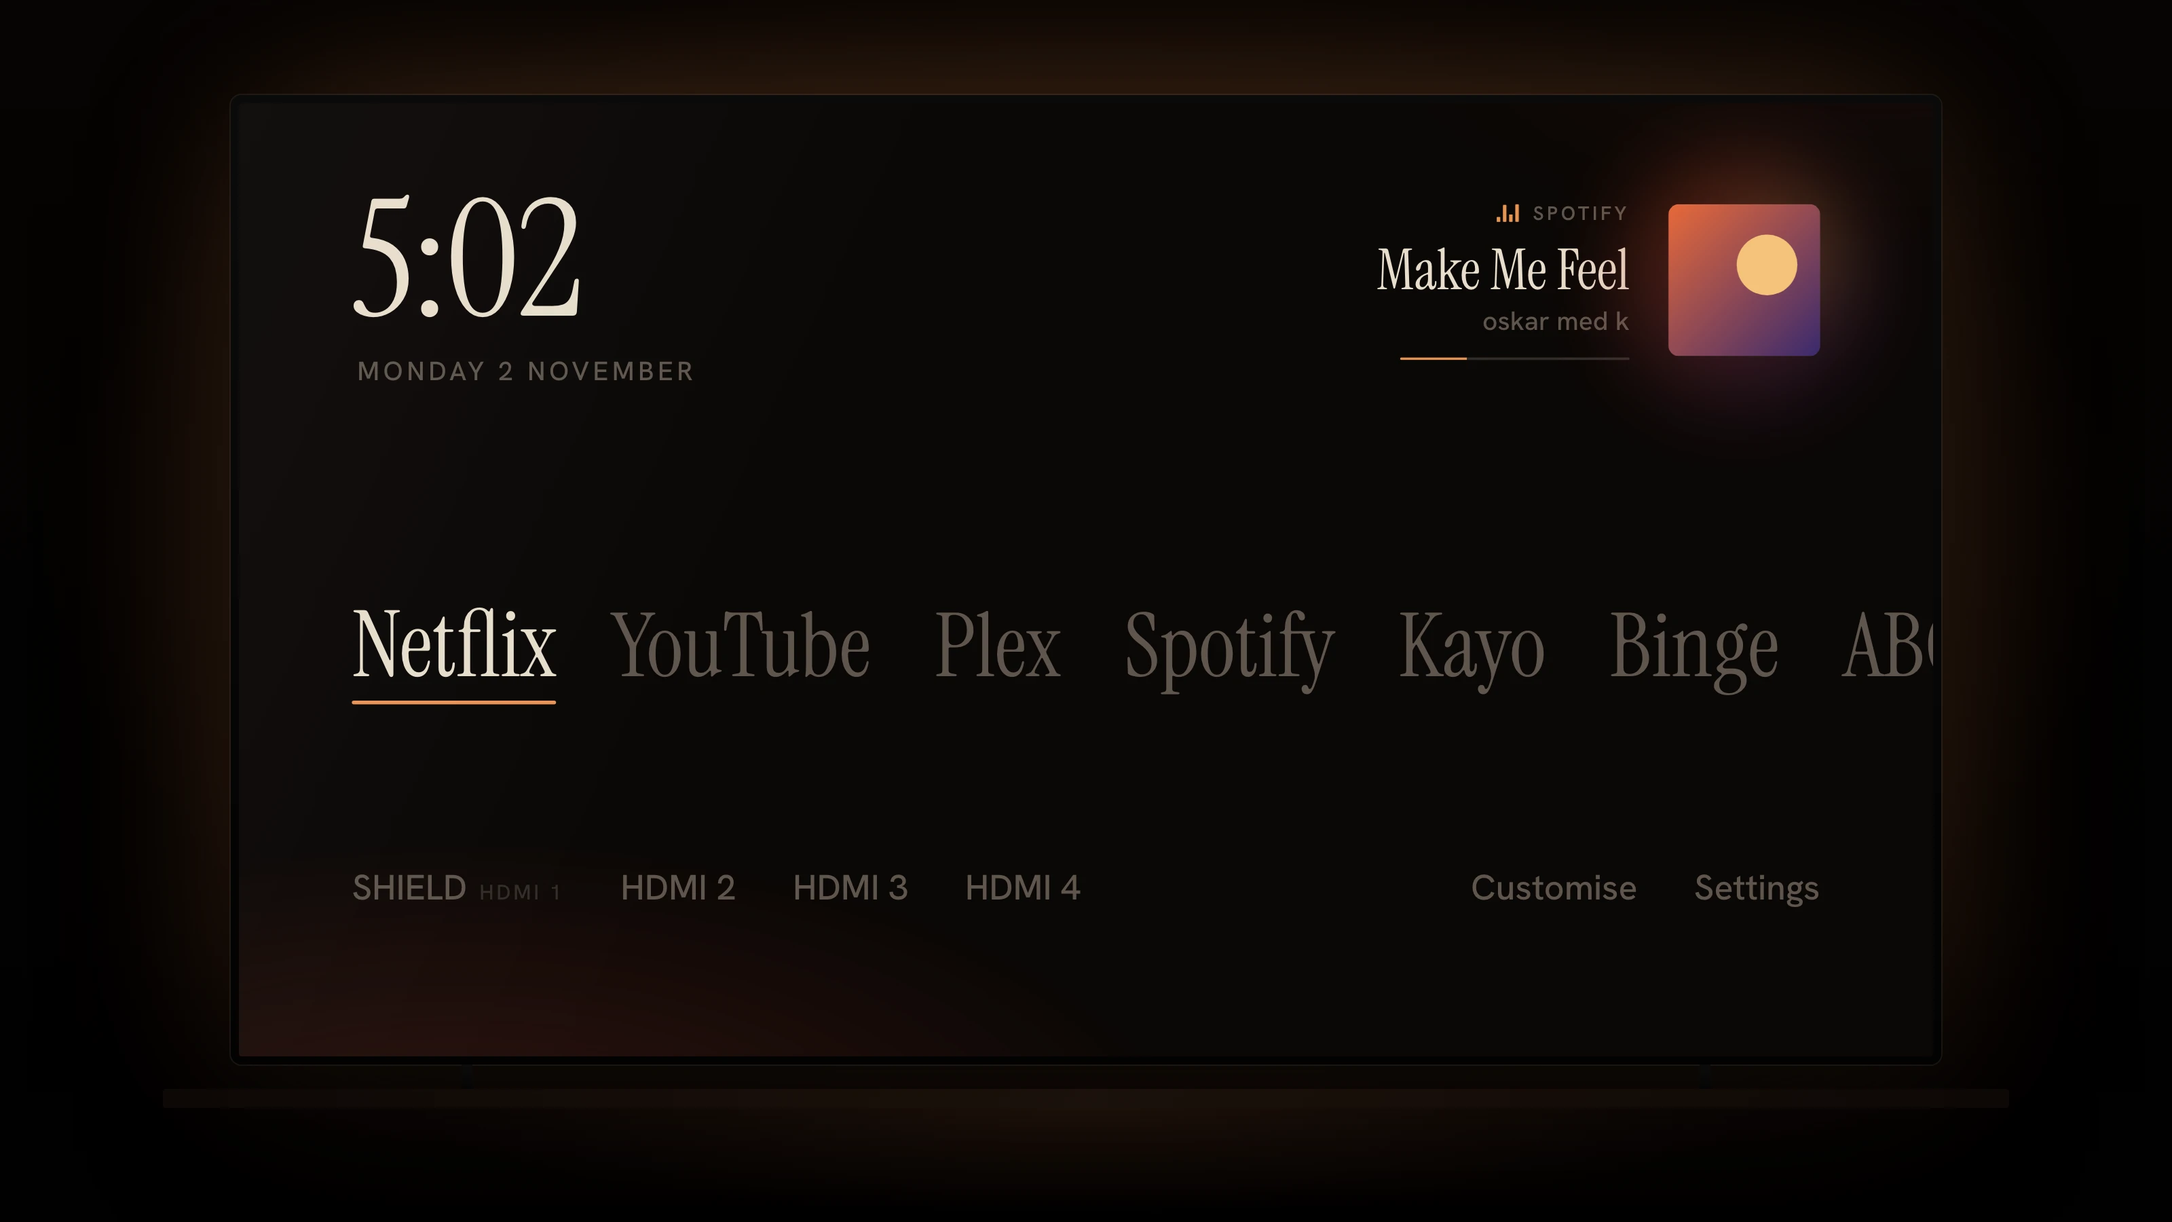
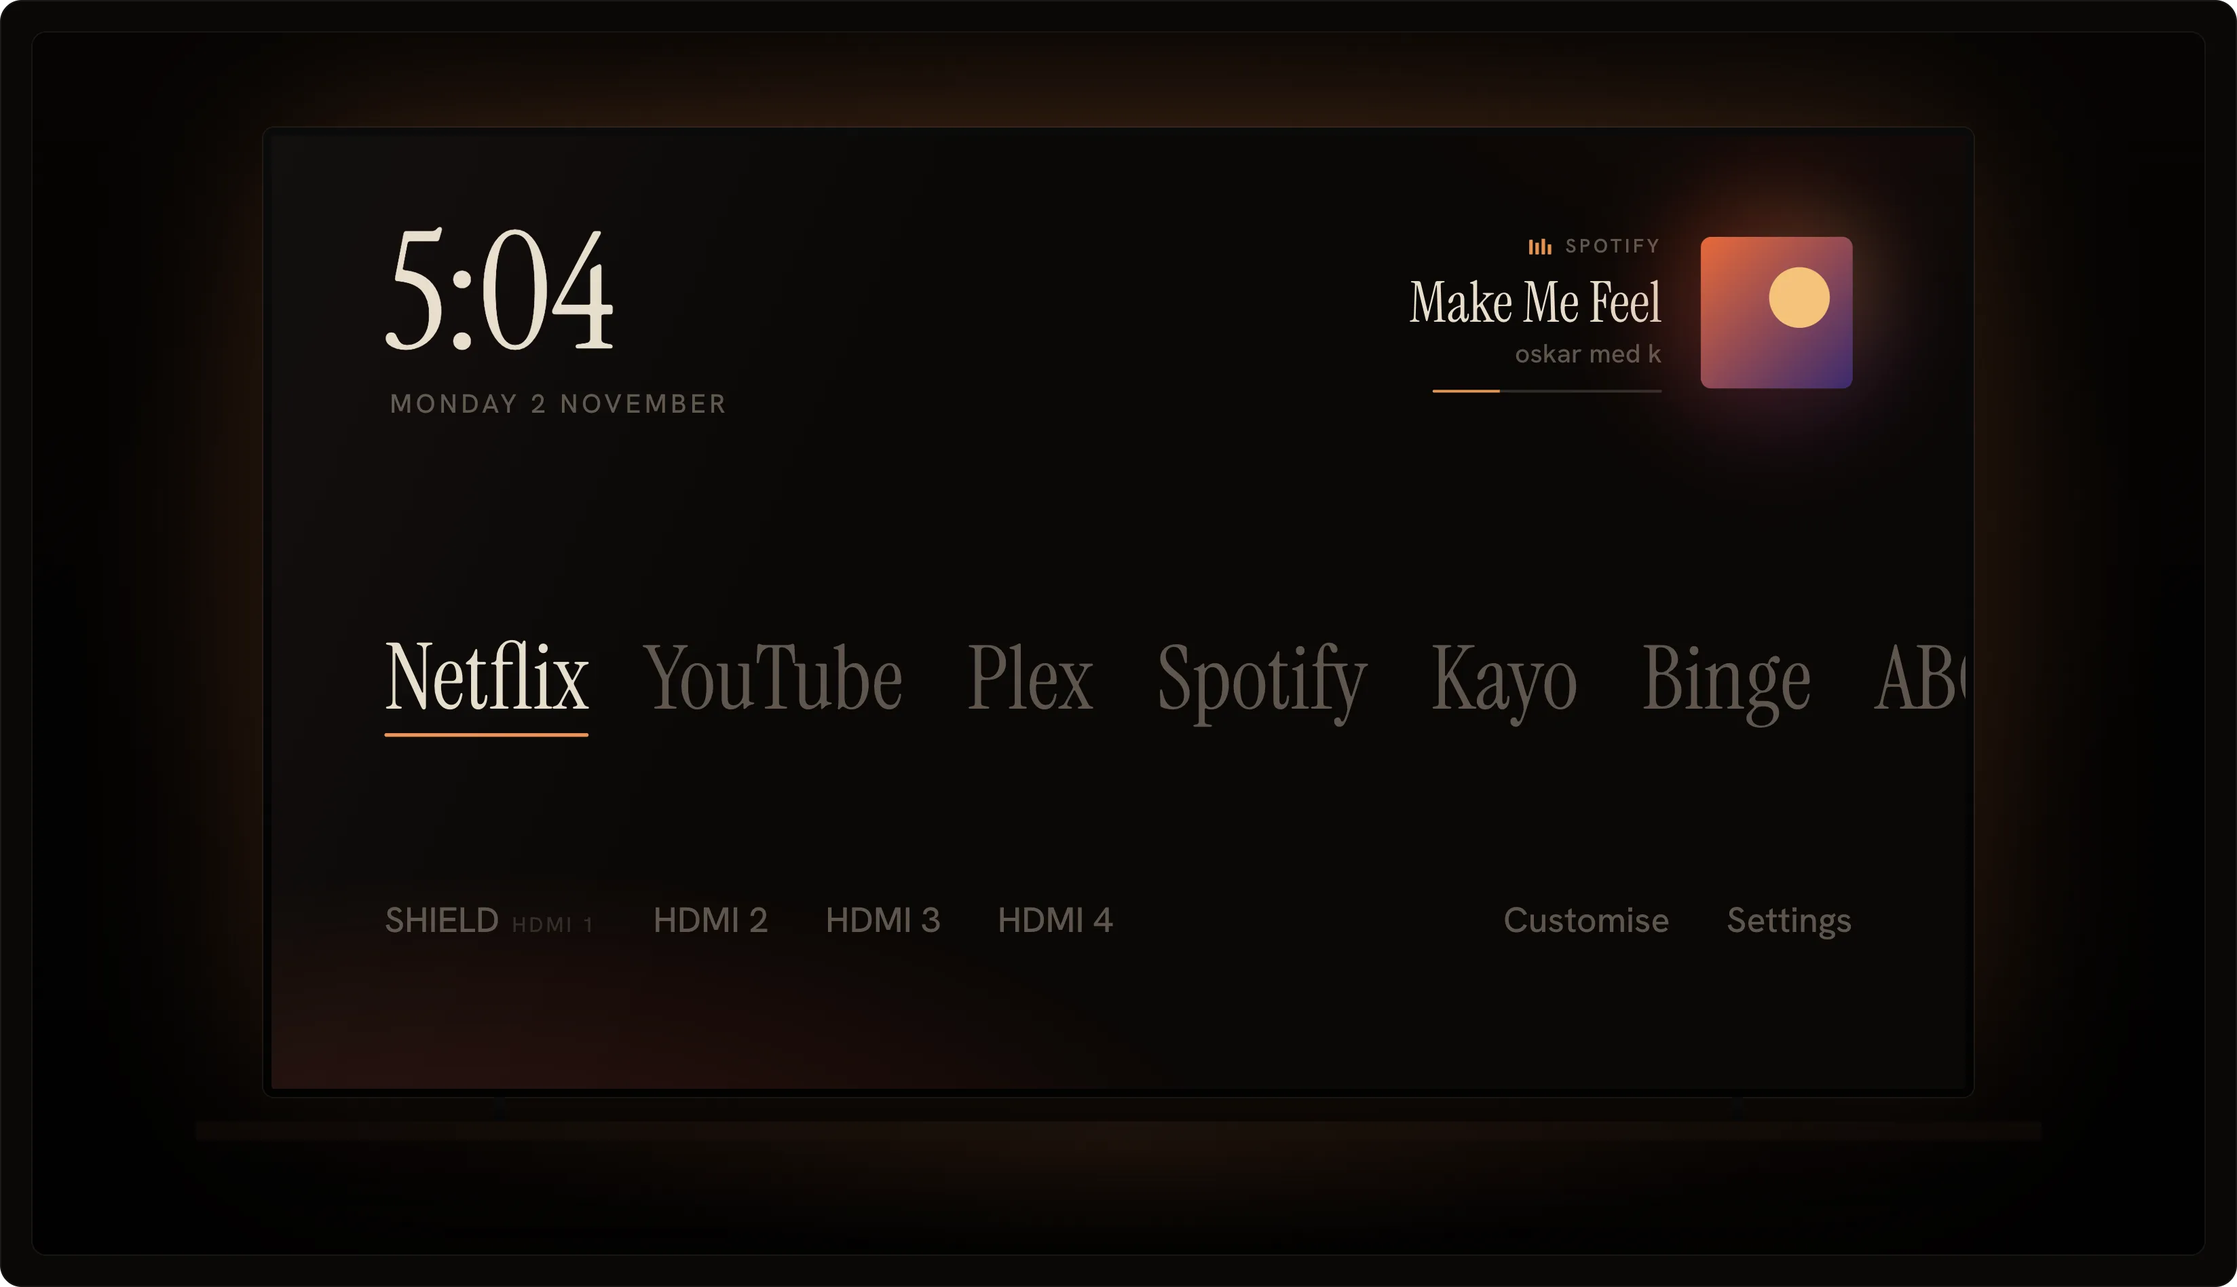
docs: give the README room between sections and a new hero
Space out sections, loosen long lists and split dense paragraphs. Frame the
Home and Remote shots like the other README images, and replace the hero,
which repeated them, with one that shows the busy home screen fading to Home's
quiet row.

diff --git a/docs/images/hero-noise.html b/docs/images/hero-noise.html
@@ -1,0 +1,67 @@
+<!doctype html>
+<html><head><meta charset="utf-8">
+<!-- README hero, "noise to black": a busy grid of tiles switching off, pixel by pixel, into one quiet row in Home's type.
+     Render: brave/chrome --headless --hide-scrollbars --force-device-scale-factor=2 --window-size=880,400 --default-background-color=00000000 --screenshot=hero-noise.png hero-noise.html
+     Keep it PNG (WebP bands the gradients). -->
+<style>
+@font-face{font-family:Display;src:url(../../launcher/app/assets/fonts/InstrumentSerif-Regular.ttf)}
+@font-face{font-family:Text;src:url(../../launcher/app/assets/fonts/HankenGrotesk.ttf);font-weight:100 900}
+:root{--bg:oklch(9% 0.006 60);--ink:oklch(90% 0.025 80);--dim:oklch(46% 0.018 70);--faint:oklch(24% 0.01 65);--accent:oklch(74% 0.13 58)}
+*{margin:0;padding:0;box-sizing:border-box}
+html,body{width:880px;height:400px;overflow:hidden;background:transparent;font-family:Text;-webkit-font-smoothing:antialiased;color:var(--ink)}
+.card{position:absolute;inset:0;border-radius:16px;overflow:hidden;background:var(--bg);box-shadow:inset 0 0 0 1px oklch(100% 0 0 / .07)}
+/* the noise: tiles placed by the script below */
+.noise{position:absolute;inset:0;-webkit-mask-image:linear-gradient(90deg,#000 16%,transparent 54%)}
+.noise b{position:absolute;border-radius:3px}
+/* the quiet side, in Home's own type at .38 of its 1080p sizes, so the proportions are the real ones:
+   time 184 / date 30 / apps 100 with a 72 gap and a 4px focus bar */
+.quiet{position:absolute;left:520px;top:0;bottom:0;display:flex;flex-direction:column;justify-content:center}
+.time{font-family:Display;font-size:70px;line-height:.9;letter-spacing:-.01em;font-variant-numeric:lining-nums}
+.date{margin:10px 0 0 2px;font-size:11px;font-weight:500;letter-spacing:.14em;text-transform:uppercase;color:var(--dim)}
+/* the dial runs off the edge, as it does on the TV */
+.row{display:flex;align-items:baseline;gap:27px;width:330px;margin-top:46px;overflow:hidden;font-family:Display;font-size:38px;line-height:1.5;white-space:nowrap;
+  -webkit-mask-image:linear-gradient(90deg,#000 calc(100% - 90px),transparent)}
+.row span{color:var(--dim)}
+.row span:first-child{color:var(--ink)}
+.row span:first-child::after{content:"";display:block;height:2px;margin-top:-5px;border-radius:1px;background:var(--accent)}
+.brand{position:absolute;left:521px;bottom:30px;display:flex;align-items:center;gap:9px;font-size:10px;font-weight:600;letter-spacing:.16em;text-transform:uppercase;color:var(--dim)}
+.brand i{width:5px;height:5px;border-radius:50%;background:var(--accent);box-shadow:0 0 8px var(--accent)}
+</style></head><body>
+<div class="card">
+  <div class="noise"></div>
+  <div class="quiet">
+    <div class="time">6:35</div>
+    <div class="date">Monday 2 November</div>
+    <div class="row"><span>Netflix</span><span>YouTube</span><span>Plex</span><span>Spotify</span></div>
+  </div>
+  <div class="brand"><i></i>Blacklevel</div>
+</div>
+<script>
+// a seeded shuffle, so every render is the same picture
+let seed = 7; const rnd = () => (seed = (seed * 16807) % 2147483647) / 2147483647;
+const noise = document.querySelector('.noise');
+const tile = (x, y, w, h, bg, extra = '') => {
+  // tiles go out from left to right: fainter, then switched off, like an OLED dropping pixels
+  const t = Math.min(1, Math.max(0, (x - 60) / 380));
+  if(rnd() < t * 1.15) return;
+  const b = document.createElement('b');
+  b.style.cssText = `left:${x}px;top:${y}px;width:${w}px;height:${h}px;background:${bg};opacity:${(1 - t * .85).toFixed(2)};${extra}`;
+  noise.appendChild(b);
+};
+const grey = () => `oklch(${(24 + rnd() * 16).toFixed(1)}% ${(rnd() * .02).toFixed(3)} ${Math.round(rnd() * 360)})`;
+const loud = () => `oklch(${(38 + rnd() * 12).toFixed(1)}% ${(.05 + rnd() * .05).toFixed(3)} ${[25, 250, 145, 300][Math.floor(rnd() * 4)]})`;
+// a hero banner, then rows of thumbnails with their title bars, badges and the odd loud tile
+tile(28, 28, 280, 100, 'linear-gradient(110deg, oklch(34% .05 250), oklch(26% .03 300))');
+tile(44, 92, 90, 8, 'oklch(55% .01 80)'); tile(44, 106, 56, 14, 'oklch(62% .12 25)', 'border-radius:7px');
+tile(316, 28, 136, 100, grey()); tile(460, 28, 136, 100, grey());
+let y = 156;
+for(const h of [40, 34, 40, 34, 40]){
+  for(let x = 28; x < 620; x += 72 + Math.round(rnd() * 6)){
+    tile(x, y, 64, h, rnd() < .18 ? loud() : grey());
+    tile(x, y + h + 5, 40 + rnd() * 40, 4, 'oklch(32% .006 70)');
+    if(rnd() < .25) tile(x + 5, y + 5, 18, 7, loud(), 'border-radius:5px');
+  }
+  y += h + 16;
+}
+</script>
+</body></html>

diff --git a/docs/images/remote-menubar.html b/docs/images/remote-menubar.html
@@ -1,11 +1,13 @@
 <!doctype html>
 <html><head><meta charset="utf-8">
-<!-- Render: brave/chrome --headless --hide-scrollbars --force-device-scale-factor=2 --window-size=1200,700 --screenshot=remote-menubar.png remote-menubar.html -->
+<!-- Render: brave/chrome --headless --hide-scrollbars --force-device-scale-factor=2 --window-size=1200,720 --screenshot=remote-menubar.png remote-menubar.html -->
 <style>
 *{margin:0;padding:0;box-sizing:border-box}
-html,body{width:1200px;height:700px;overflow:hidden;font-family:-apple-system,BlinkMacSystemFont,sans-serif;-webkit-font-smoothing:antialiased}
+html,body{width:1200px;height:720px;overflow:hidden;background:transparent;font-family:-apple-system,BlinkMacSystemFont,sans-serif;-webkit-font-smoothing:antialiased}
+/* framed like the other README images: a dark rounded card with a 24px border */
+.card{position:absolute;inset:0;border-radius:16px;padding:24px;background:oklch(13% 0.008 60);box-shadow:inset 0 0 0 1px oklch(100% 0 0 / .07)}
 /* desktop: a dim night horizon, no personal wallpaper */
-body{position:relative;background:
+.desk{position:relative;height:100%;border-radius:10px;overflow:hidden;box-shadow:0 0 0 1px oklch(100% 0 0 / .06);background:
   radial-gradient(900px 380px at 30% 108%, oklch(30% 0.05 55 / .9), transparent 70%),
   radial-gradient(1200px 600px at 70% 120%, oklch(24% 0.04 250 / .8), transparent 70%),
   linear-gradient(180deg, oklch(12% 0.02 260), oklch(16% 0.025 255) 60%, oklch(20% 0.03 60))}
@@ -22,6 +24,7 @@ body{position:relative;background:
 .remote{position:absolute;top:32px;right:110px;width:320px;border-radius:12px;overflow:hidden;box-shadow:0 0 0 1px oklch(100% 0 0 / .12),0 24px 70px -8px #000c,0 8px 24px #0007}
 .remote img{display:block;width:100%}
 </style></head><body>
+<div class="card"><div class="desk">
 <svg class="hills" viewBox="0 0 1200 300" preserveAspectRatio="none">
   <path d="M0 190 L140 120 L230 160 L360 70 L470 150 L560 110 L700 175 L820 95 L930 150 L1060 105 L1200 160 V300 H0Z" fill="oklch(13% 0.02 250)"/>
   <path d="M0 240 L180 200 L320 225 L480 180 L640 230 L800 195 L960 235 L1100 205 L1200 220 V300 H0Z" fill="oklch(9% 0.012 250)"/>
@@ -39,4 +42,5 @@ body{position:relative;background:
 </div>
 
 <div class="remote"><img src="remote-menu.png"></div>
+</div></div>
 </body></html>

diff --git a/docs/images/home-tv.html b/docs/images/home-tv.html
@@ -1,11 +1,13 @@
 <!doctype html>
 <html><head><meta charset="utf-8">
-<!-- Render: brave/chrome --headless --hide-scrollbars --force-device-scale-factor=2 --window-size=1600,900 --virtual-time-budget=4000 --screenshot=home-tv.png home-tv.html, then convert to home-tv.webp -->
+<!-- Render: brave/chrome --headless --hide-scrollbars --force-device-scale-factor=2 --window-size=1648,948 --default-background-color=00000000 --virtual-time-budget=4000 --screenshot=home-tv.png home-tv.html, then convert to home-tv.webp -->
 <style>
 *{margin:0;padding:0;box-sizing:border-box}
-html,body{width:1600px;height:900px;overflow:hidden;background:oklch(8% 0.006 60)}
+html,body{width:1648px;height:948px;overflow:hidden;background:transparent}
+/* framed like the other README images: a dark rounded card with a 24px border */
+.card{position:absolute;inset:0;border-radius:16px;padding:24px;background:oklch(13% 0.008 60);box-shadow:inset 0 0 0 1px oklch(100% 0 0 / .07)}
 /* a dark room, lit only by the screen */
-body{position:relative;background:
+.room{position:relative;height:100%;border-radius:10px;overflow:hidden;box-shadow:0 0 0 1px oklch(100% 0 0 / .06);background:
   radial-gradient(1100px 620px at 50% 44%, oklch(25% 0.04 52 / .9), transparent 70%),
   linear-gradient(180deg, oklch(11% 0.008 60), oklch(8% 0.006 60) 78%, oklch(6% 0.005 60))}
 .tv{position:absolute;left:170px;top:70px;width:1260px;padding:6px;border-radius:8px;background:linear-gradient(#0b0b0b,#020202);
@@ -20,8 +22,10 @@ body{position:relative;background:
 .feet{position:absolute;top:784px;width:8px;height:18px;background:linear-gradient(#0c0c0c,#050505)}
 .reflect{position:absolute;left:300px;right:300px;top:816px;height:80px;background:radial-gradient(50% 100% at 50% 0, oklch(55% 0.1 50 / .12), transparent)}
 </style></head><body>
+<div class="card"><div class="room">
 <div class="tv"><div class="screen"><iframe src="../../launcher/app/assets/index.html"></iframe></div></div>
 <div class="feet" style="left:340px"></div><div class="feet" style="right:340px"></div>
 <div class="console"></div>
 <div class="reflect"></div>
+</div></div>
 </body></html>

diff --git a/README.md b/README.md
@@ -5,16 +5,26 @@
 Blacklevel replaces the busy parts of a Sony BRAVIA Google TV with quiet ones: a dark, typographic home screen with no ads or recommendation rows, and a native macOS menu bar remote. No accounts, no cloud, no third-party code. Everything talks to the TV over your local network. The only internet service either app contacts is GitHub, to check this repo's Releases for updates, which you can turn off. [What talks to what](#what-talks-to-what) has the details.
 
 <p align="center">
-  <img src="docs/images/social-hero.png" alt="Blacklevel Home on a TV, with the Blacklevel Remote open from the Mac menu bar" width="100%">
+  <img src="docs/images/hero-noise.png" alt="A busy grid of ads and recommendation tiles fading out into black, leaving only the time and a quiet row of app names: Netflix, YouTube, Plex" width="100%">
 </p>
+
+<br>
 
 ## Quick start
 
 1. **Prepare the TV**: turn on IP control with a pre-shared key, and (for Home) network debugging. See [TV setup](docs/tv-setup.md).
+
 2. **Remote**: download `BlacklevelRemote-<version>-macOS.zip` from [Releases](https://github.com/itsonlyjames/blacklevel/releases/latest), move the app to Applications and open it (it's signed and notarised), then enter the TV's address and key in **Settings…**. Or build it: `cd menubar && ./build.sh`. [More](menubar/README.md)
+
 3. **Home**: download `BlacklevelHome-<version>.apk` from [Releases](https://github.com/itsonlyjames/blacklevel/releases/latest) (or `cd launcher && ./build.sh`), then install and set it as the home screen with `adb`. [More](launcher/README.md)
 
 Both parts are independent. Use either, or both.
+
+<a name="compatibility"></a>
+
+Developed and tested on a **Sony XR-65A80J** (2021, Google TV), and should work on most BRAVIA Android TV and Google TV models from 2015 onward. Got a different BRAVIA? [Help test it](docs/compatibility.md).
+
+<br>
 
 ## What's in the box
 
@@ -26,6 +36,8 @@ A replacement home screen for the TV (Android TV / Google TV). The time, one row
   <img src="docs/images/home-tv.webp" alt="Blacklevel Home on a TV: the time, a row of app names, the HDMI inputs and what's playing" width="100%">
 </p>
 
+<br>
+
 ### [Blacklevel Remote](menubar/)
 
 A SwiftUI menu bar remote for macOS 14+: power, volume, inputs, apps, D-pad, playback, picture and sound settings, text entry, screenshots. Uses Sony's BRAVIA REST API and IRCC codes.
@@ -34,9 +46,11 @@ A SwiftUI menu bar remote for macOS 14+: power, volume, inputs, apps, D-pad, pla
   <img src="docs/images/remote-menubar.png" alt="Blacklevel Remote open from its icon in the Mac menu bar" width="100%">
 </p>
 
-<a name="compatibility"></a>
+<br>
 
-Developed and tested on a **Sony XR-65A80J** (2021, Google TV), and should work on most BRAVIA Android TV and Google TV models from 2015 onward. Got a different BRAVIA? [Help test it](docs/compatibility.md).
+---
+
+<br>
 
 <a name="prompt-your-agent"></a>
 <p align="center">
@@ -115,7 +129,11 @@ work out the likely cause, and run only read-only checks (adb devices, the Remot
 
 </details>
 
+<br>
+
 ---
+
+<br>
 
 ## What talks to what
 
@@ -132,17 +150,25 @@ On the internet, the only service either app contacts is GitHub: the update chec
 
 Turn the update checks off with **Settings… → Updates** in the Remote and **Customise → Updates → Updates** on Home. Either updater checks the SHA-256 of the download against the release's `SHA256SUMS.txt` and refuses to install if that file is missing or doesn't match.
 
+<br>
+
 ## Verified releases
 
 Every release is checkable, and none of it relies on taking this README's word for it:
 
 - **Attested on GitHub.** From v1.4.0, a GitHub Actions workflow ([attest-release.yml](.github/workflows/attest-release.yml)) checks each release's files against `SHA256SUMS.txt` and signs a provenance attestation for them. They're listed on the repo's [Attestations](https://github.com/itsonlyjames/blacklevel/attestations) page; each one names the commit, the tag and the workflow run, and the SHA-256 of every file.
+
 - **The APK is rebuilt from source.** From v1.4.1, a second workflow ([reproduce-apk.yml](.github/workflows/reproduce-apk.yml)) checks out the release's tag, builds Blacklevel Home on a GitHub runner with the same pinned toolchain, and compares it with the published APK. Only the signature may differ, and the published APK must carry the release certificate. When both hold, it attests the APK, so the attestation says it was built from that source.
+
 - **Recorded in a public log.** Each attestation is also written to [Sigstore](https://www.sigstore.dev)'s public transparency log, which can't be edited afterwards, so a release can't be quietly re-attested later. The attestation's Actions run links to its log entry.
+
 - **Signed by the maintainer.** In releases after 1.4.1, the tag and `SHA256SUMS.txt` are signed with the key in [docs/allowed_signers](docs/allowed_signers), and GitHub marks the tag as Verified.
+
 - **Signed apps.** The Mac app is signed with a Developer ID and notarised by Apple; the APK is always signed with the same certificate, so Android only installs updates from it.
 
-What this proves: the files are exactly the ones this repo's release published, and the APK was built from the tagged source. What it doesn't: the Mac app is signed and notarised on the maintainer's Mac, and rebuilding it byte for byte depends on the exact Xcode version, so it isn't rebuilt in CI. Its Developer ID signature and Apple's notarisation tie it to the maintainer instead. Signing keys never leave that Mac, so a compromised workflow could at worst publish a misleading attestation, never a signed app or update.
+What this proves: the files are exactly the ones this repo's release published, and the APK was built from the tagged source.
+
+What it doesn't: the Mac app is signed and notarised on the maintainer's Mac, and rebuilding it byte for byte depends on the exact Xcode version, so it isn't rebuilt in CI. Its Developer ID signature and Apple's notarisation tie it to the maintainer instead. Signing keys never leave that Mac, so a compromised workflow could at worst publish a misleading attestation, never a signed app or update.
 
 ### Check a download
 
@@ -159,9 +185,17 @@ curl -fsSLO https://raw.githubusercontent.com/itsonlyjames/blacklevel/main/docs/
 ssh-keygen -Y verify -f allowed_signers -I blacklevel -n file -s SHA256SUMS.txt.sig < SHA256SUMS.txt
 ```
 
[1 lines of base64/hex data omitted]
+You can also check each part on its own:
+
+- **Release tags** are signed with the same key. In a clone, from the same releases: `git -c gpg.ssh.allowedSignersFile=docs/allowed_signers tag -v <tag>`.
+
[1 lines of base64/hex data omitted]
+
+- **The Mac app**: `spctl -a -vv /Applications/BlacklevelRemote.app` should say it's accepted and notarised.
 
 From v1.4.0, each release's files also carry a GitHub attestation: with the [GitHub CLI](https://cli.github.com), run `gh attestation verify <file> --repo itsonlyjames/blacklevel`. To check the APK was rebuilt from source (from v1.4.1), add `--signer-workflow itsonlyjames/blacklevel/.github/workflows/reproduce-apk.yml`.
+
+<br>
 
 ## Documentation
 
@@ -179,16 +213,23 @@ No Gradle, no Xcode project, no dependencies to fetch.
 - **Home** needs `openjdk@17`, `kotlin`, and Android SDK `platforms;android-34` + `build-tools;34.0.0`.
 - **Remote** needs Swift 5.9+ (Xcode Command Line Tools) on macOS 14 or later.
 
+<br>
+
 ## Further intentions
 
 Ideas, not promises. The rule stays the same: local network only, no accounts, no cloud, no third-party code.
 
 - **Mobile remote**: an iPhone (and maybe Android) app with the same features as the menu bar remote, built on the same BRAVIA REST API and IRCC calls. A phone remote that does only what the TV needs, without the vendor app's sign-in and suggestions.
+
 - **Windows tray remote**: the menu bar remote for Windows, living in the system tray. Same feature set, same "reads what your TV supports at runtime" approach.
+
 - **Shared API layer**: as more clients appear, write down the BRAVIA calls each one depends on (methods, IRCC codes, quirks per model) so every client behaves the same way.
+
 - **Wider model testing**: confirm behaviour beyond the XR-65A80J and note the differences in [docs/compatibility.md](docs/compatibility.md).
 
 If one of these matters to you, open an issue and say so.
+
+<br>
 
 ## License
 
